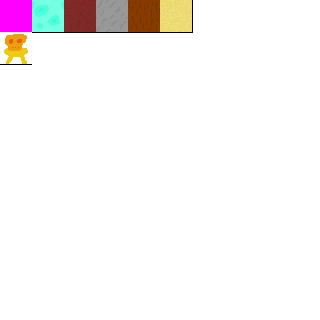
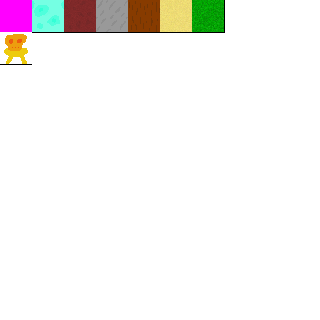
trees, sand

Changed region(s): [[0.5938, 0.0, 0.7188, 0.125]]

diff --git a/Map.cpp b/Map.cpp
@@ -71,21 +71,33 @@ void Map::Chunk::generate(){
 	constexpr int dirtHeight = 5;
 	int gx = x * chSize;
 	int gy = y * chSize;
+	//const bool forested = perlin.noise2D_01(gx * 0.01, 2) > 0.5;
 	for(int i = 0; i < chSize; i++){
 		const int n1 = perlin.noise2D((gx+i) * 0.01, 1) * TERRAIN_STEEPNESS+100;
 		for(int j = 0; j < chSize; j++){
 			if(j+gy<n1)data[i + j * chSize] = Tile::AIR;
 			else if(j+gy<n1+dirtHeight)data[i + j * chSize] = Tile::DIRT;
 			else data[i + j * chSize] = Tile::STONE;
+
+			if(i == chSize / 2 && j + gy == n1)generateTree(i,j);
 		}
 	}
-	//TODO: generate proper trees
-	/*for(size_t x = 0; x < mWidth; x++){
-		if(rand() % 100 > 10)continue;
-		const int n1 = perlin.noise2D_01(x * 0.01, 1) * mHeight;
-		const int n2 = perlin.noise2D_01(x * 0.01, 2) * n1;
-		for(size_t y = 0; y < rand()%12; y++){
-			world[x + n2 * mWidth-y*mWidth] = Tile::WOOD;
+}
+
+void Map::Chunk::generateTree(int tx, int ty){
+	for(int i = 0; i < 7; i++){
+		if(ty - i >= 0){
+			data[tx + (ty - i) * chSize] = Tile::WOOD;
+			//Tile::LEAVES
+		}
+	}
+}
+
+void Map::Chunk::update(){
+	/*for(size_t i = 0; i < mWidth * (mHeight - 1); i++){//TODO: this is a bad idea
+		if(world[i] == Tile::SAND && world[i + mWidth] == Tile::AIR){
+			world[i] = Tile::AIR;
+			world[i + mWidth] = Tile::SAND;
 		}
 	}*/
 }
@@ -98,12 +110,19 @@ void Map::place(int x, int y, Tile t){
 }
 
 void Map::update(){
-	/*for(size_t i = 0; i < mWidth * (mHeight - 1); i++){//TODO: this is a bad idea
-		if(world[i] == Tile::SAND && world[i + mWidth] == Tile::AIR){
-			world[i] = Tile::AIR;
-			world[i + mWidth] = Tile::SAND;
+	int beginX = (cameraX - wWidth / 2) / tileSize - 1;
+	int beginY = (cameraY - wHeight / 2) / tileSize - 1;
+	int endX = (cameraX + wWidth / 2) / tileSize + 1;
+	int endY = (cameraY + wHeight / 2) / tileSize + 1;
+	for(int x = beginX; x < endX; x++){
+		for(int y = beginY; y < endY; y++){
+			if(world(x,y) == Tile::SAND && world(x,y+1) == Tile::AIR){
+				world(x,y) = Tile::AIR;
+				world(x,y+1) = Tile::SAND;
+			}
 		}
-	}*/
+	}
+	
 	player->update();
 }
 

diff --git a/Helper.h b/Helper.h
@@ -36,7 +36,7 @@ const siv::PerlinNoise perlin{seed};
 */
 
 enum Tile :uint8_t{
-	UNKNOWN = 0, AIR = 1, DIRT = 2, STONE = 3, WOOD = 4, SAND = 5, PLAYER=10
+	UNKNOWN = 0, AIR = 1, DIRT = 2, STONE = 3, WOOD = 4, SAND = 5, LEAVES=6, PLAYER=10
 };
 constexpr bool isSolid(Tile t){
 	switch(t){
@@ -75,6 +75,8 @@ public:
 		Chunk(short x, short y);
 		Chunk();
 		void generate();
+		void generateTree(int x, int y);
+		void update();
 		short x, y;
 		Tile data[chSize * chSize];
 	};

diff --git a/Player.cpp b/Player.cpp
@@ -11,7 +11,7 @@ void Player::update(){//TODO: ugly, it still does not work ideally, but it works
 	int button = SDL_GetMouseState(&mox, &moy);
 	//TODO: handle only on mouseDown events --- maybe not
 	if(button & SDL_BUTTON_LMASK){
-		map->place(map->tPosX(mox), map->tPosY(moy), Tile::STONE);
+		map->place(map->tPosX(mox), map->tPosY(moy), Tile::SAND);
 	} else if(button & SDL_BUTTON_RMASK){
 		map->place(map->tPosX(mox), map->tPosY(moy), Tile::AIR);
 	}
